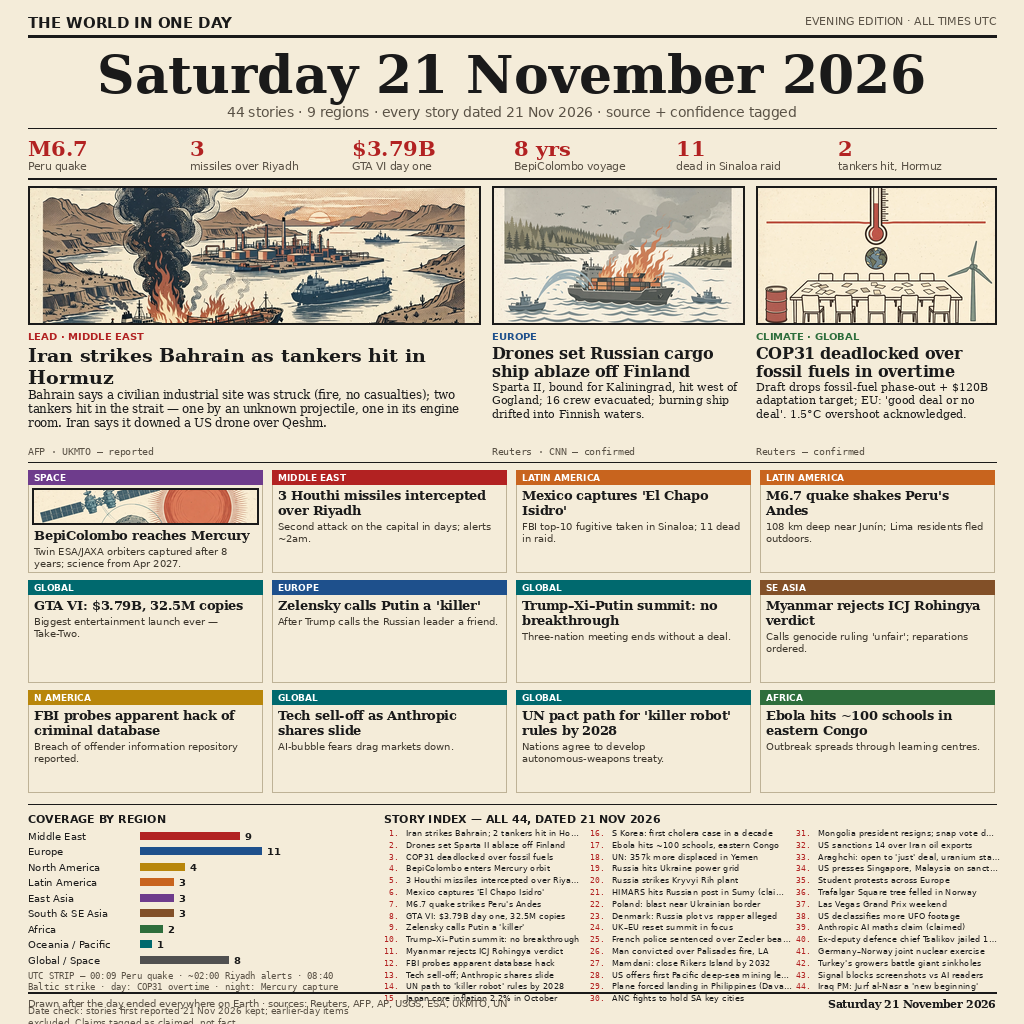
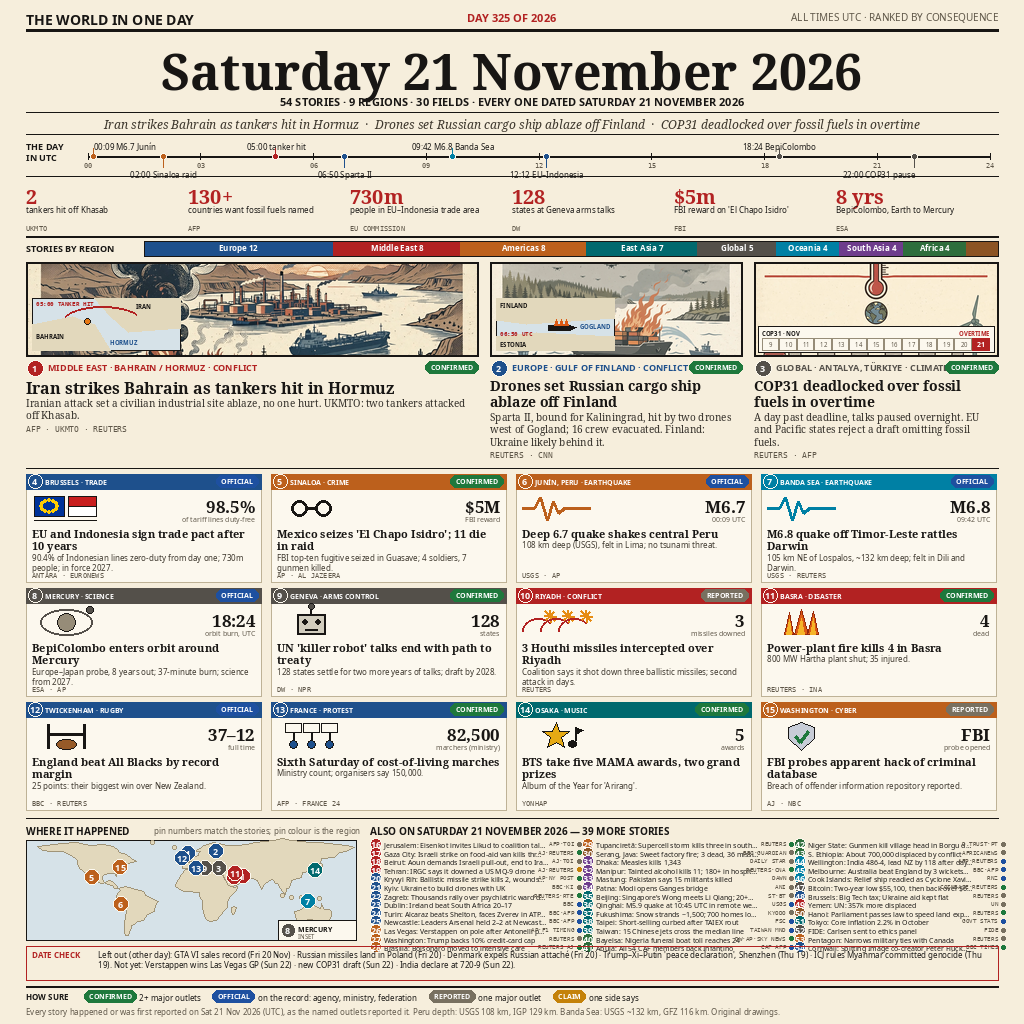
v2: 54 stories, 9 regions, 30 fields

diff --git a/main.py b/main.py
@@ -2,8 +2,8 @@
 """news-image-20261121 entry: writes the 21 Nov 2026 front page to /output/entry.png.
 
 The image (entry.png beside this file) is a 1024x1024 newspaper front page drawn
-for Saturday 21 November 2026: 44 date-checked stories across 9 regions, three
-illustrated lead stories, a numbers strip, region coverage bars, a UTC strip and
+for Saturday 21 November 2026: 54 date-checked stories across 9 regions and 30
+fields, three illustrated lead stories, a numbers strip, region coverage bars, a UTC strip and
 a full story index. The program only copies those bytes, so both grader runs
 write identical output with no network.
 """

diff --git a/README.md b/README.md
@@ -3,8 +3,8 @@
 [![make.fun · news-image-20261121](https://make.fun/badge/news-image-20261121.svg)](https://make.fun/bounty/news-image-20261121?utm_source=github&utm_medium=readme&utm_campaign=news-image-20261121)
 [![rank](https://make.fun/badge/news-image-20261121/BokeXe/news-image-20261121/rank.svg)](https://make.fun/bounty/news-image-20261121/leaderboard?utm_source=github&utm_medium=readme&utm_campaign=news-image-20261121)
 
-Saturday 21 November 2026 in one image: a newspaper front page with 44 date-checked
-stories across 9 regions — three illustrated leads (Iran strikes Bahrain as tankers
+Saturday 21 November 2026 in one image: a newspaper front page with 54 date-checked
+stories across 9 regions and 30 fields — three illustrated leads (Iran strikes Bahrain as tankers
 hit in Hormuz; drones set the Russian cargo ship Sparta II ablaze off Finland; COP31
 deadlocked over fossil fuels in overtime), a numbers strip, region coverage bars,
 a UTC strip, and a full numbered story index. Every story is tagged by source and
